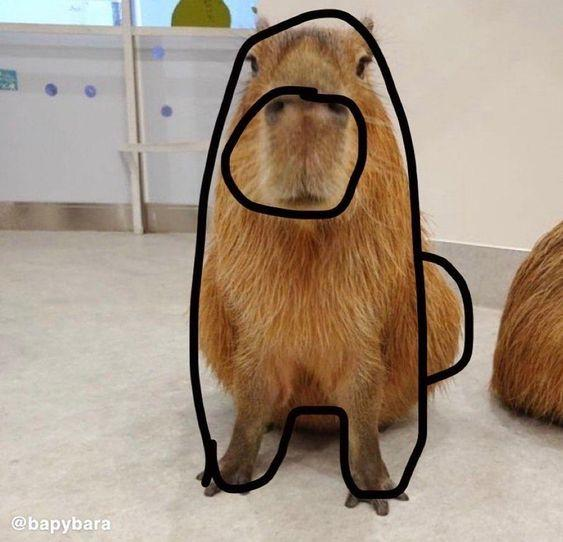
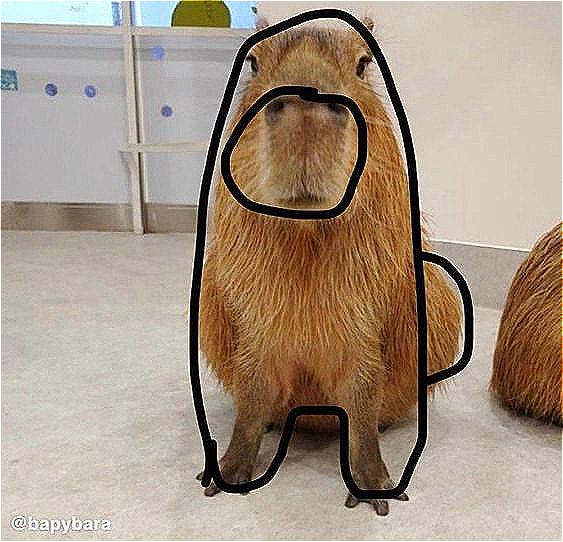
Changed sharp.py to properly display the sharpened image output

diff --git a/src/sharpening/sharp.py b/src/sharpening/sharp.py
@@ -43,7 +43,7 @@ sharpening.weight = nn.Parameter(kernel, requires_grad=False)
 sharpening_img = sharpening(img)
 
 # Define blending factor (0 = original image, 1 = sharpened image, 0.5 = average of both, higher = more sharpened)
-blend_factor = 0.5
+blend_factor = 1
 
 # Blend sharpened image with original image
 sharpening_img = torch.add(blend_factor * sharpening_img, (1 - blend_factor) * img)
